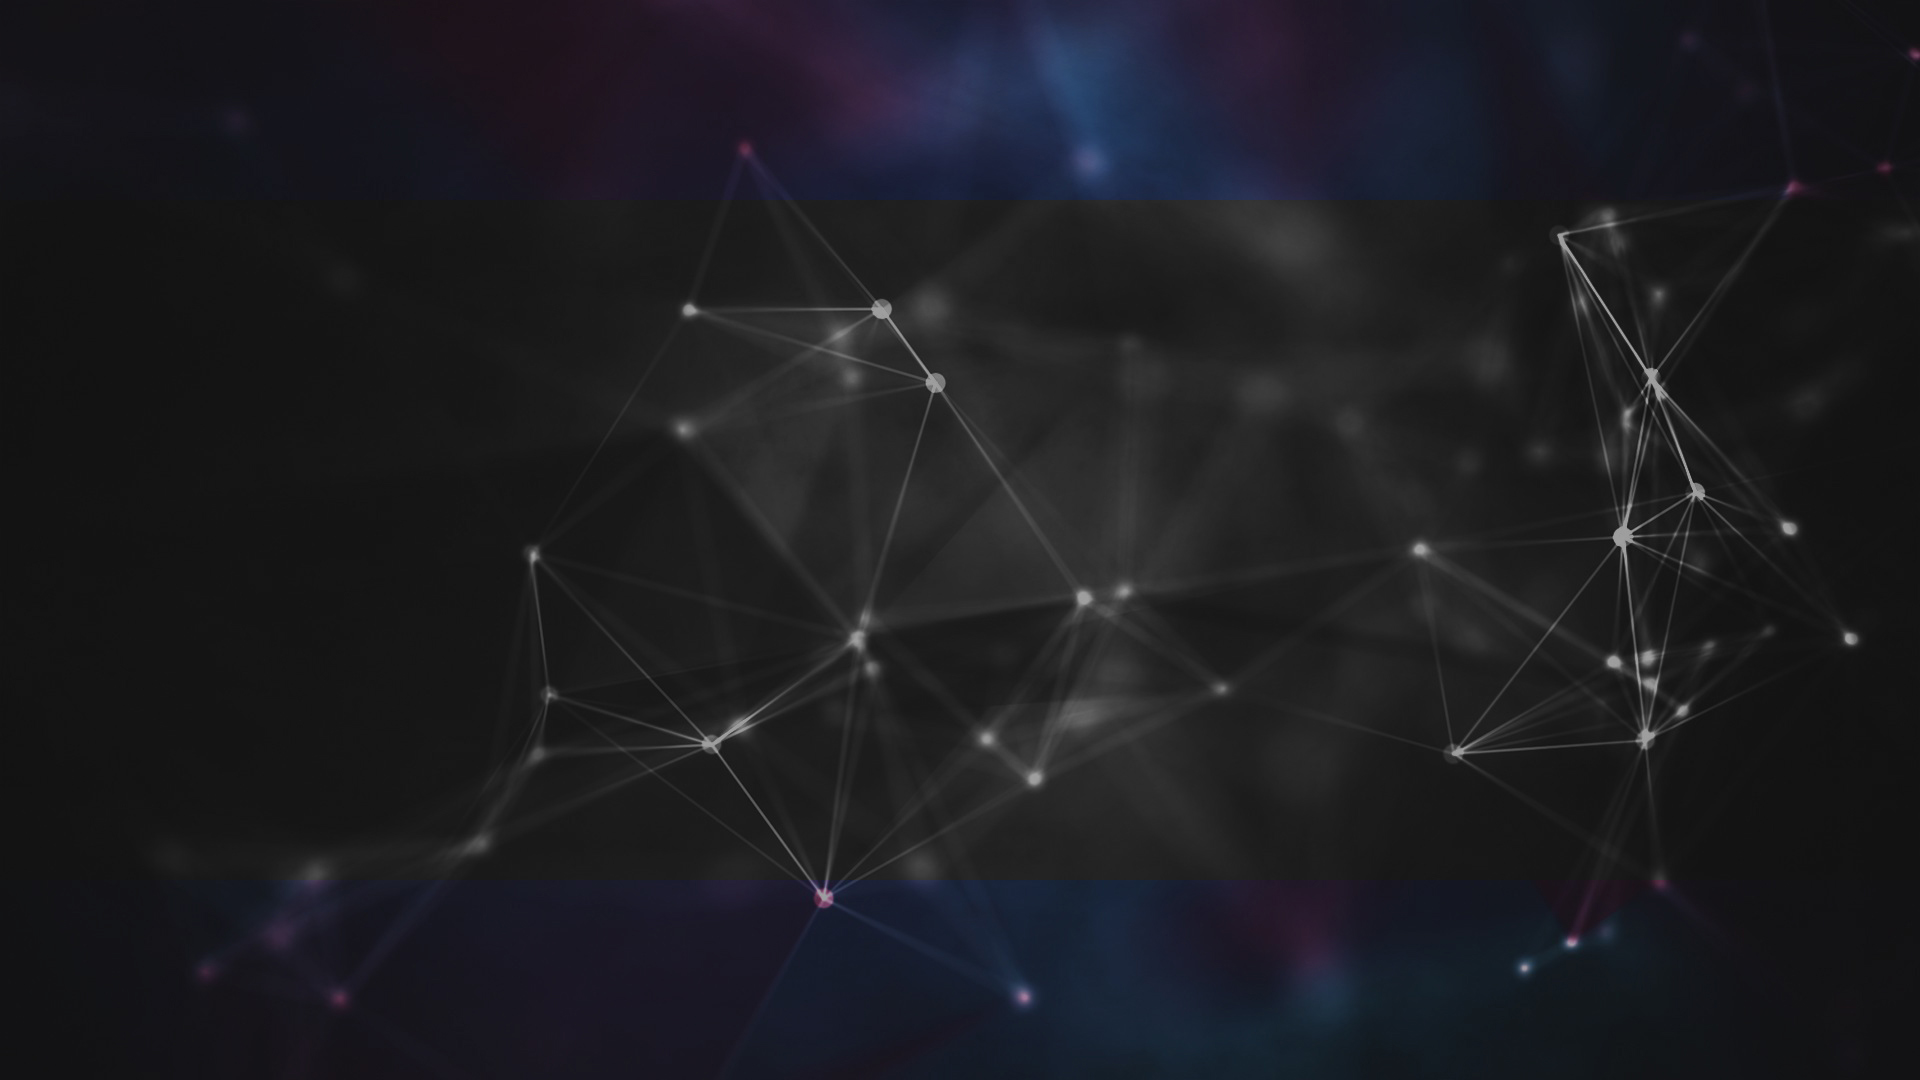
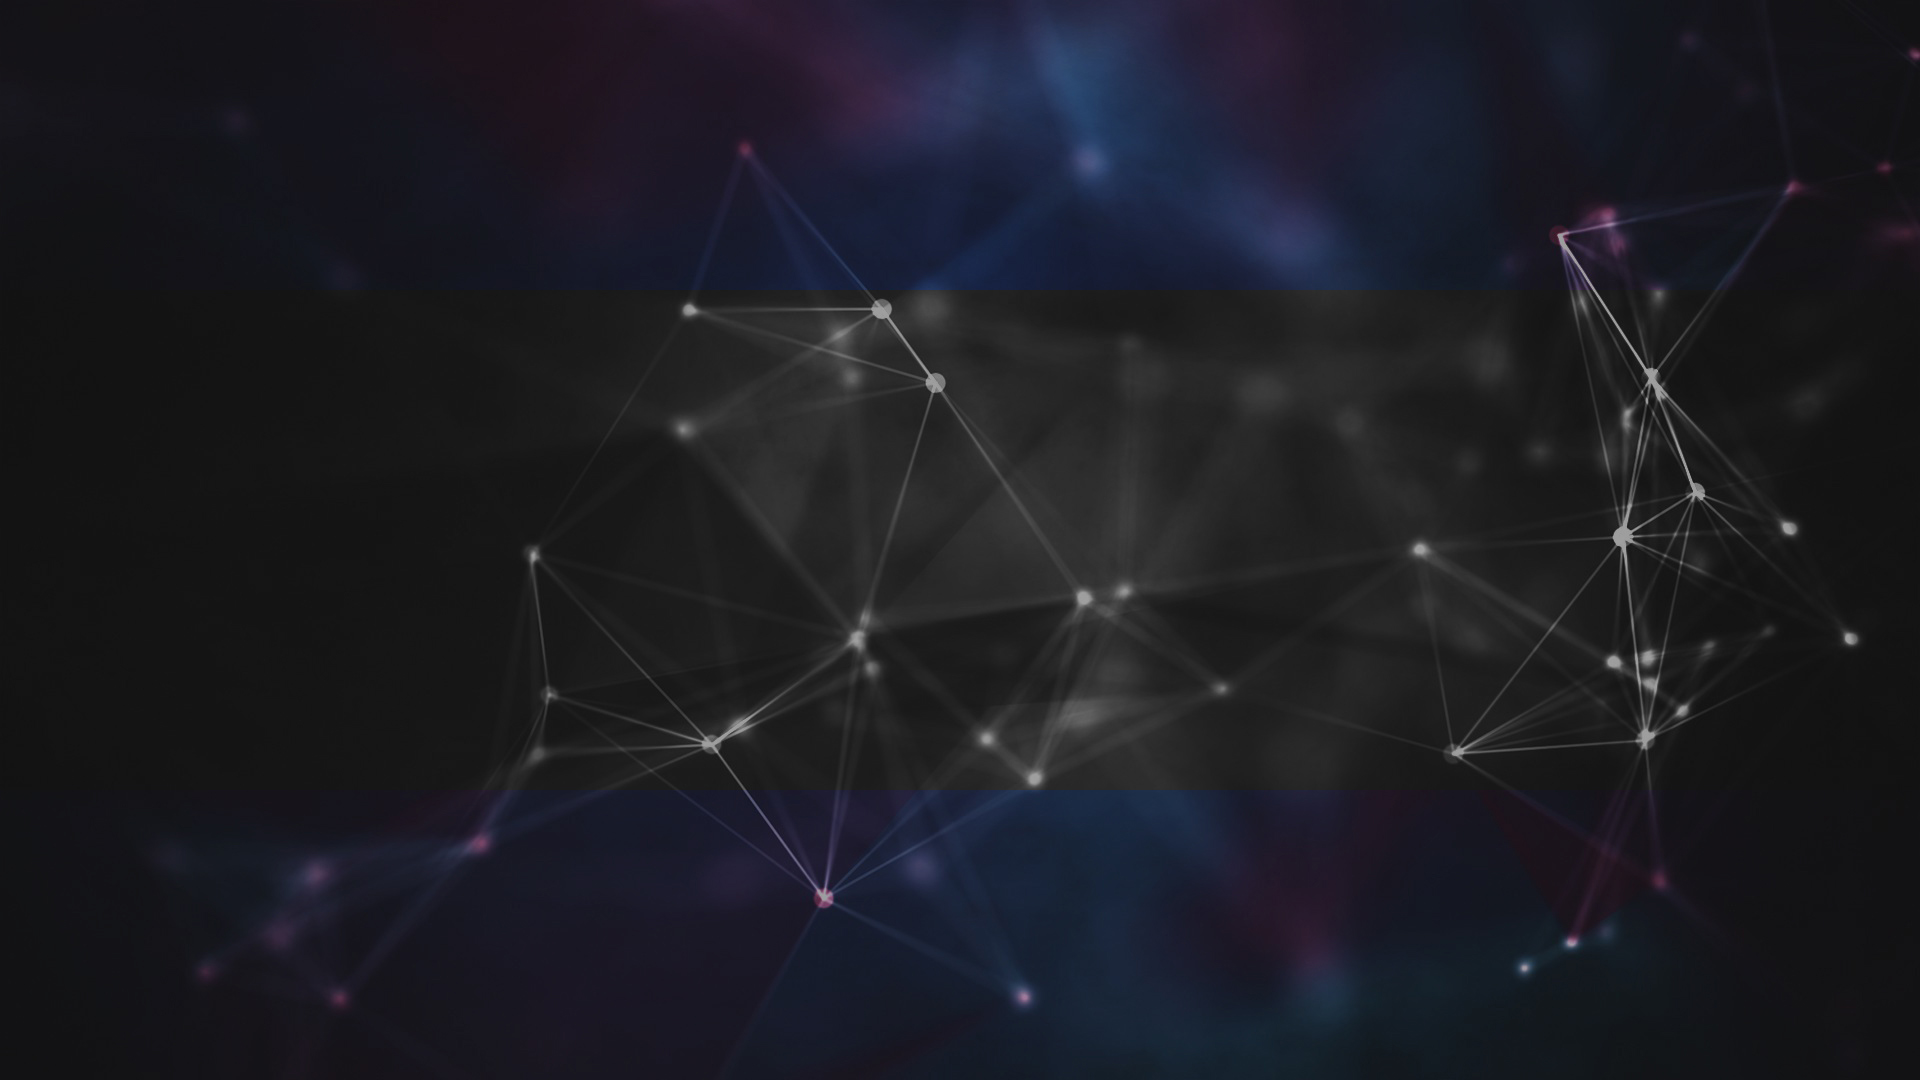
Merged navbar and switching background features

Changed region(s): [[0.4062, 0.1833, 0.7188, 0.275], [0.4375, 0.7333, 0.625, 0.825]]

diff --git a/src/views/App.vue b/src/views/App.vue
@@ -3,12 +3,14 @@
            id="main-section" class="hero is-fullheight has-background">
     <div id="app" class="hero-body">
       <div class="container">
-        <nav>
-          <router-link to="/">Search</router-link>
-          <router-link to="profile">My profile</router-link>
-          <router-link to="posts">Latest posts</router-link>
-          <router-link to="ask">Ask a question</router-link>
-        </nav>
+        <ul>
+          <li class="one"><router-link to='/'>Search</router-link></li><!--
+       --><li class="two"><router-link to='profile'>My profile</router-link></li><!--
+       --><li class="three"><router-link to='posts'>Latest posts</router-link></li><!--
+       --><li class="four"><router-link to='ask'>Ask a question</router-link></li><!--
+       --><li class="five"><router-link to='logout'>Logout</router-link></li>
+        <hr />
+        </ul>
         <router-view/>
       </div>
     </div>
@@ -37,33 +39,67 @@ export default {
   background-size: cover;
 }
 
-nav{
-  position: fixed; /* Set the navbar to fixed position */
-  top: 0; /* Position the navbar at the top of the page */
+* {
+  box-sizing: border-box;
+}
+
+body {
+  font: 300 100% 'Helvetica Neue', Helvetica, Arial;
+}
+
+.container {
+  width: 100%;
+  margin: 0;
+}
+
+ul {
+  position: fixed;
+  top: 20px;
   width: 100%;
   left: 0;
-  background-color:#FBFBFB;
 }
 
-nav a{
-  display:inline-block;
-  padding: 18px 30px;
-  color:#868686 !important;
-  /*color:#000000 !important;*/
-  font-weight:bold;
-  font-size:16px;
-  text-decoration:none !important;
-  line-height:1;
-  text-transform: uppercase;
-  background-color:transparent;
-  -webkit-transition:background-color 0.25s;
-  -moz-transition:background-color 0.25s;
-  transition:background-color 0.25s;
+ul li {
+  display: inline;
+  text-align: center;
 }
 
-nav a:hover {
-  background-color: #65B0FF;
-  color: black;
-  /*border-radius:30px;*/
+a {
+  display: inline-block;
+  width: 20%;
+  padding: .50rem 0;
+  margin: 0;
+  text-decoration: none;
+  color: #FFFFFF;
 }
+
+hr {
+  height: .25rem;
+  width: 20%;
+  margin-left: 0%;
+  background: #65B0FF;
+  /*background: #FFFFFF;*/
+  border: none;
+}
+
+a:hover {
+  color: #FFFFFF;
+}
+
+.two:hover ~ hr {
+  margin-left: 20%;
+}
+
+.three:hover ~ hr {
+  margin-left: 40%;
+}
+
+.four:hover ~ hr {
+  margin-left: 60%;
+}
+
+.five:hover ~ hr {
+  margin-left: 80%;
+}
+
 </style>

diff --git a/src/main.js b/src/main.js
@@ -4,6 +4,7 @@ import Vue from 'vue'
 import App from '@/views/App.vue'
 import Profile from '@/components/Profile.vue'
 import Posts from '@/components/Posts.vue'
+import Logout from '@/components/Logout.vue'
 import router from './router'
 import VueParticles from 'vue-particles'
 import Vuex from 'vuex'
@@ -12,11 +13,14 @@ Vue.use(VueParticles)
 Vue.use(Vuex)
 Vue.config.productionTip = false
 
+// Vuex is a state management pattern + library for Vue.js applications. It serves as a centralized store for all the components in an application,
+// with rules ensuring that the state can only be mutated in a predictable fashion.
+
 const store = new Vuex.Store({
   state: {
     backgroundImagePath: require('./assets/bg.jpg')
   },
-  mutations: {
+  mutations: { // possible transformations
     switch_background (state, image) {
       state.backgroundImagePath = image
     }
@@ -28,6 +32,6 @@ export default new Vue({
   el: '#app',
   store,
   router,
-  components: { App, Posts, Profile },
+  components: { App, Posts, Profile, Logout },
   template: '<App/>'
 })

diff --git a/src/components/Particles.vue b/src/components/Particles.vue
@@ -26,38 +26,9 @@
 
 <script>
 export default {
-  name: 'Particles'
+  name: 'Particles',
+  created: function () {
+    this.$store.commit('switch_background', require('../assets/bg.jpg'))
+  }
 }
 </script>
-
-<style>
-nav{
-    position: fixed; /* Set the navbar to fixed position */
-    top: 0; /* Position the navbar at the top of the page */
-    width: 100%;
-    left: 0;
-    background-color:#FBFBFB;
-}
-
-nav a{
-    display:inline-block;
-    padding: 18px 30px;
-    color:#868686 !important;
-    /*color:#000000 !important;*/
-    font-weight:bold;
-    font-size:16px;
-    text-decoration:none !important;
-    line-height:1;
-    text-transform: uppercase;
-    background-color:transparent;
-    -webkit-transition:background-color 0.25s;
-    -moz-transition:background-color 0.25s;
-    transition:background-color 0.25s;
-}
-
-nav a:hover {
-    background-color: #65B0FF;
-    color: black;
-    /*border-radius:30px;*/
-}
-</style>

diff --git a/src/components/Logout.vue b/src/components/Logout.vue
@@ -1,9 +1,10 @@
 <!-- Author: @GiovannaTheo -->
 <!-- This file controls the particuls that are on screen -->
+
 <template>
   <div>
     <vue-particles
-        color="#0080FF"
+        color="#6600CC"
         :particleOpacity="0.7"
         :particlesNumber="80"
         shapeType="circle"
@@ -25,9 +26,9 @@
 
 <script>
 export default {
-  name: 'Posts',
+  name: 'Logout',
   created: function () {
-    this.$store.commit('switch_background', require('../assets/bg-black.jpg'))
+    this.$store.commit('switch_background', require('../assets/bg.jpg'))
   }
 }
 </script>

diff --git a/src/router/index.js b/src/router/index.js
@@ -4,6 +4,7 @@ import Particles from '@/components/Particles'
 import Profile from '@/components/Profile'
 import Posts from '@/components/Posts'
 import Ask from '@/components/Ask'
+import Logout from '@/components/Logout'
 import Buefy from 'buefy'
 import 'buefy/lib/buefy.css'
 
@@ -31,6 +32,11 @@ export default new Router({
       path: '/ask',
       name: 'AskQuestion',
       component: Ask
+    },
+    {
+      path: '/logout',
+      name: 'Logout',
+      component: Logout
     }
   ]
 })

diff --git a/src/components/Profile.vue b/src/components/Profile.vue
@@ -25,6 +25,9 @@
 
 <script>
 export default {
-  name: 'Profile'
+  name: 'Profile',
+  created: function () {
+    this.$store.commit('switch_background', require('../assets/bg.jpg'))
+  }
 }
 </script>

diff --git a/src/components/Ask.vue b/src/components/Ask.vue
@@ -26,6 +26,9 @@
 
 <script>
 export default {
-  name: 'Ask'
+  name: 'Ask',
+  created: function () {
+    this.$store.commit('switch_background', require('../assets/bg-black.jpg'))
+  }
 }
 </script>
